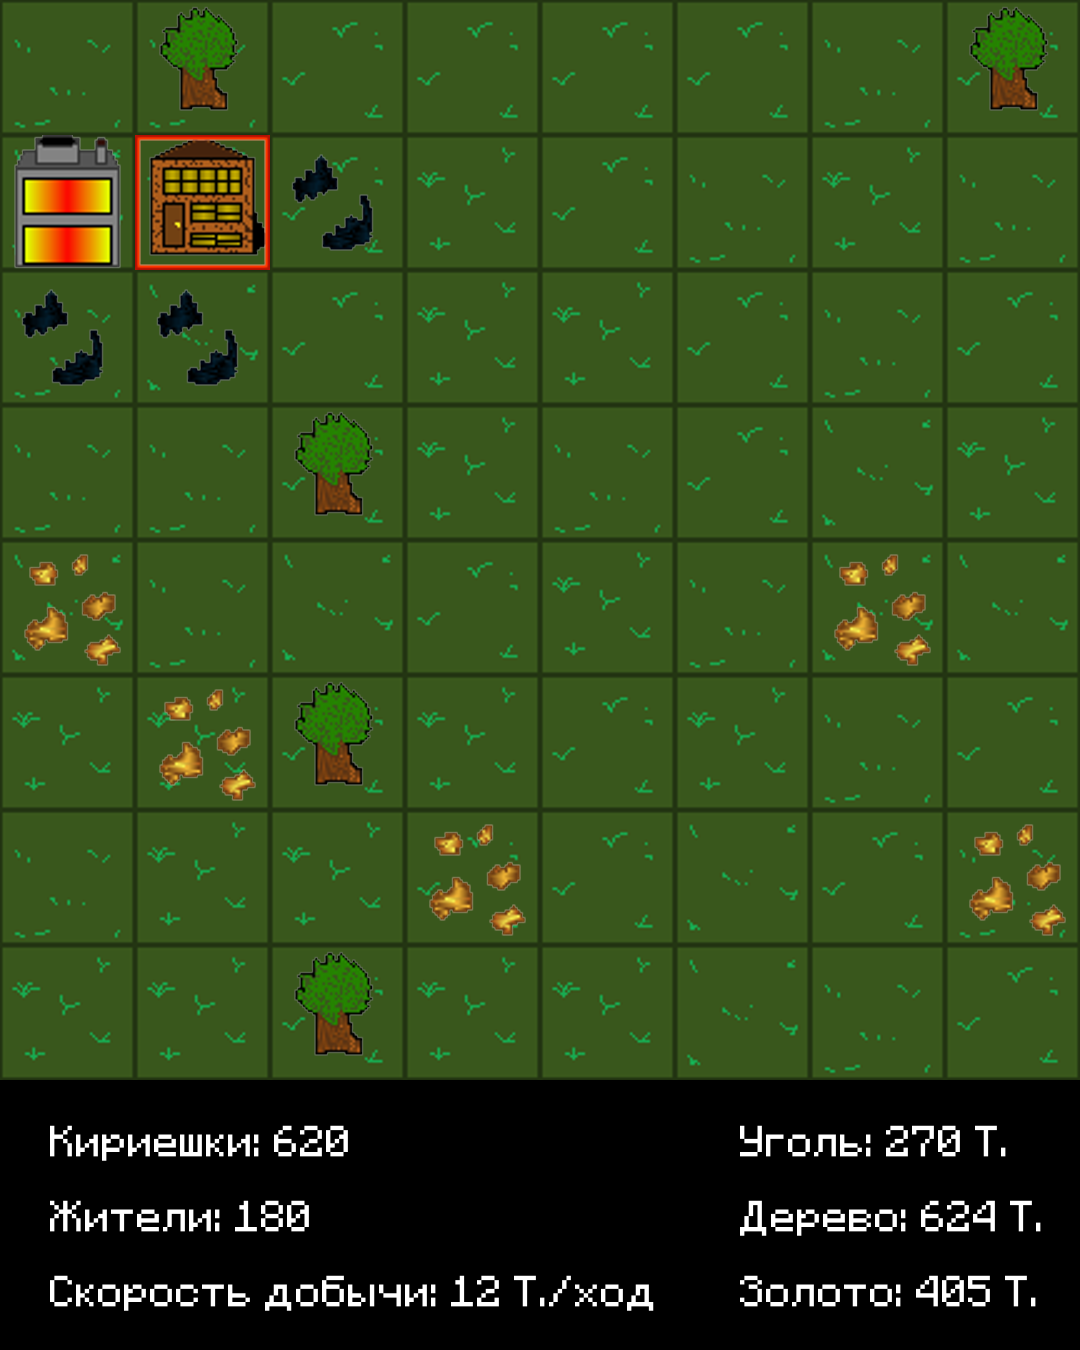
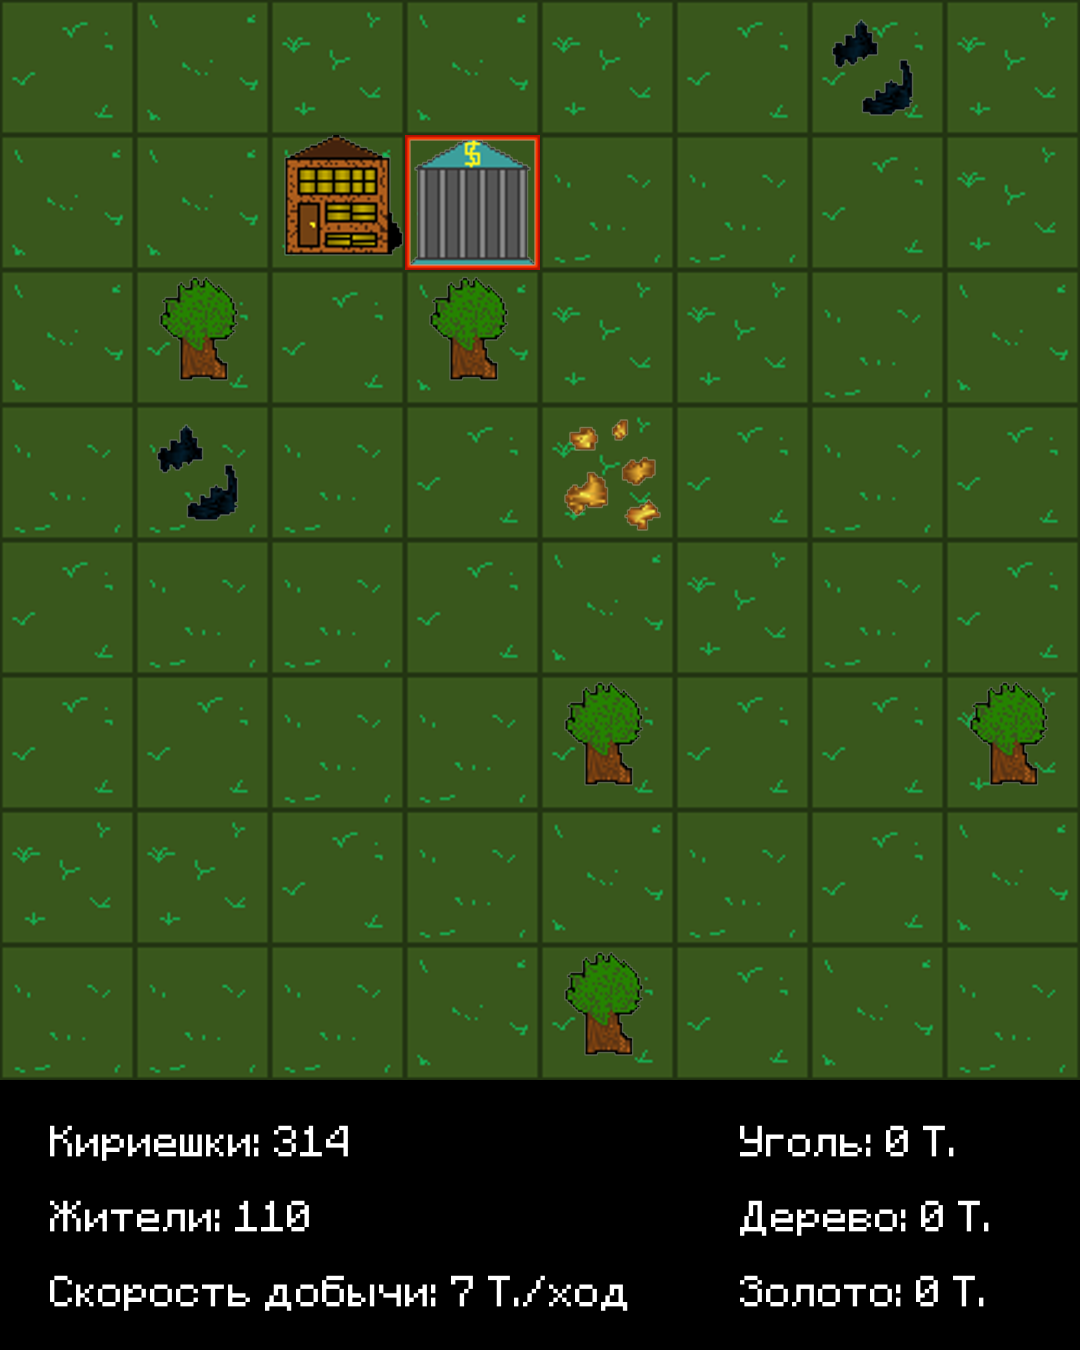
little changes

diff --git a/BGEvr/botik.py b/BGEvr/botik.py
@@ -16,7 +16,7 @@ load_dotenv()
 
 class RunGameBot:
     def __init__(self):
-        self.help_text = "Итак, вы попали в незабываемый и удивительный мир строительства - Industrio!\nВ ней вы можете ходить красным курсором, который представляет вашу безграничную силу, нажимая на стрелочки.\nТак же вы можете строить и улучшать дома построенные вами в вкладке 'строительство'\nНу и кнопка следующий ход - следующий ход, что сказать.\nЖелаем приятной игры, разработчики йеллоу тиме <3!"
+        self.help_text = "Итак, вы попали в незабываемый и удивительный мир строительства под кодовым названием Industrio!\nВ ней вы можете ходить красным курсором, который представляет вашу безграничную силу, нажимая на стрелочки.\nТак же вы можете строить и улучшать дома построенные вами в вкладке 'строительство'\nНу и кнопка следующий ход - следующий ход, что сказать.\nЖелаем приятной игры, разработчики йеллоу тиме <3!"
         self.new_gamer = False
         self.txt = ''
         self.player_view =None
@@ -31,22 +31,23 @@ class RunGameBot:
         self.used_keyboard = []
         self.economic_keyboard = [
             [InlineKeyboardButton("продать весь уголь", callback_data='sell_coal')],
-            [InlineKeyboardButton("продать все золото", callback_data='sell_gold')],
             [InlineKeyboardButton("продать все дерево", callback_data='sell_wood')],
+            [InlineKeyboardButton("продать все золото", callback_data='sell_gold')],
             [InlineKeyboardButton("назад", callback_data='main_page')]
         ]
         self.setting_keyboard = [
             [InlineKeyboardButton("хелп ми плз", callback_data='help')],
+            [InlineKeyboardButton("инфо о вас", callback_data='user_info')],
             [InlineKeyboardButton("новая игра", callback_data='new_game')],
             [InlineKeyboardButton("назад", callback_data='main_page')]]
         self.main_keyboard = [
             [InlineKeyboardButton("настройки", callback_data='settings')],
             [InlineKeyboardButton("построить", callback_data='build')],
-            [InlineKeyboardButton("экономика", callback_data='economic')],
             [InlineKeyboardButton("🔼", callback_data='u')],
             [InlineKeyboardButton("◀",callback_data="l"),
              InlineKeyboardButton("▶",callback_data="r")],
             [InlineKeyboardButton("🔽", callback_data='d')],
+            [InlineKeyboardButton("экономика", callback_data='economic')],
             [InlineKeyboardButton("следующий ход",callback_data="next_move")]
         ]
         self.build_keyboard = [
@@ -92,8 +93,6 @@ class RunGameBot:
         query.answer()
         print(query.data)
         player = Player(query.from_user.id, self.db)
-        #if query.data == 'mod':
-        #    self.txt += ",".join(self.dataloader.load_player_id())
         if query.data == 'settings':
             self.used_keyboard = self.setting_keyboard
         if query.data == 'new_game':
@@ -101,10 +100,10 @@ class RunGameBot:
             self.db.delete_by_user_id("user_info",self.user.id)
             user_res = self.generator_res.generate_res()
             self.db.insert_batch("user_info",[{"pos_x" : 1,"pos_y" : 1, "units" : 10, "house_id" : 'no_buildings', "chat_id" : self.user.id,"user_id" : self.user.id,"created" : int(datetime.now().timestamp()), "updated" : int(datetime.now().timestamp()),"money" : 100,"user_nickname" : self.user.full_name,"last_img_id": t,"res_id" : user_res,"player_level" : 1,"mining_speed":1}],id_name='user_id')
+            self.used_keyboard = self.main_keyboard
             update_usage = True
-        """if query.data == 'delete':
-            self.player.delete_house()
-            update_usage = True"""
+        if query.data == 'user_info':
+            self.txt += self.player.player_info()
         if query.data == 'economic':
             self.used_keyboard = self.economic_keyboard
         if query.data == 'help':
@@ -141,6 +140,10 @@ class RunGameBot:
             self.txt += player.build_smth("small_bank", query.from_user.id)
             update_usage = True
             #self.txt += "А фигушки, механика пока не работает :("
+
+        if query.data in ["sell_gold","sell_coal","sell_wood"]:
+            self.txt += self.player.trade(query.data.split("_")[1])
+            update_usage = True
 
         if query.data == 'upgrade':
             self.txt+=self.player.update_house()

diff --git a/BGEvr/Model/player.py b/BGEvr/Model/player.py
@@ -72,9 +72,9 @@ class Player:
         houses_data = {
             "small_house": [0, 10],
             "small_factory": [10, 0],
-            "middle_house": [0,25],
+            "middle_house": [5,25],
             "middle_factory": [25,0],
-            "big_house": [0,50],
+            "big_house": [10,50],
             "big_factory": [50,0],
             "small_bank": [0,0],
             "middle_bank":[0,0]
@@ -133,10 +133,10 @@ class Player:
     def build_smth(self,buiding, user_id):
         return self.game.create_house(buiding,[self.progress["x"],self.progress["y"]])
 
-    def player_info(self, user_id):
+    def player_info(self):
         self.player_money = self.db.select_by_user_id("user_info",self.user_id)[0][8]
         self.player_units = self.db.select_by_user_id("user_info",self.user_id)[0][2]
-        return f"Ваши кириешки, Милорд - {self.player_money}\nКоличество ваших жителей, Милорд - {self.player_units}"
+        return f"Ваш уровень - {self.player_level}\n\n\nДа и все..."
     
 
 
@@ -156,3 +156,25 @@ class Player:
             return self.game.upgrade_house(self.player_pos_x,self.player_pos_y)
         else:
             return "Нету денег :("
+        
+    def check_bank(self):
+        user_houses = self.db.select_by_user_id("user_info", self.user_id)[0][3]
+        if user_houses == "no_buildings":
+            return 0
+        user_houses = list(map(int, user_houses.split(',')))
+        n = 0
+        for i in user_houses:
+            t = self.db.select_by_house_id("houses",i)[0]
+            if t[0] == "bank":
+                n += t[3]
+        return n
+
+    def trade(self,res_type):
+        res = {"wood" : self.db.select_by_user_id("user_info",self.user_id)[0][10],
+               "coal" : self.db.select_by_user_id("user_info",self.user_id)[0][11],
+               "gold" : self.db.select_by_user_id("user_info",self.user_id)[0][16]}
+        self.player_money += res[res_type] * (1+self.check_bank())//2
+        res[res_type] = 0
+        req = f"""coal = {res["coal"]},gold = {res["gold"]},wood = {res["wood"]},money = {self.player_money}"""
+        self.db.update_by_user_id("user_info",req,self.user_id)
+        return f"Вы успешно продали данный ресурс, на вашем балансе - {self.player_money} кириешек!"

diff --git a/BGEvr/Controller/gameplay_manager.py b/BGEvr/Controller/gameplay_manager.py
@@ -150,8 +150,8 @@ class Game():
             if t != []:
                 print(t)
                 if t[0][1] == player_x and t[0][2] == player_y:
-                    if t[0][3] >=3:
-                        return "больше нельзя строить - максимальный уровень"
+                    if t[0][3] >=3 or (t[0][0] == "bank" and t[0][3] >= 2):
+                        return "Больше нельзя строить - максимальный уровень"
                     else:
                         new_level = t[0][3] + 1
                     #print(t[0][3],'  ',new_level)
@@ -181,6 +181,7 @@ class Game():
                 _tree += _mine_speed
                 t[3] -= _mine_speed
             req = f"""coal = {_coal},wood = {_tree},gold = {_gold}"""
+            self.db.update_by_res_id("resources",f"""volume = {t[3]}""",i)
             self.db.update_by_user_id("user_info",req,self.user_id)
             if t[3] <= 0:
                 self.db.delete_by_house_id("resources",i)

diff --git a/BGEvr/database_adapter.py b/BGEvr/database_adapter.py
@@ -67,7 +67,7 @@ class Adapter():
         self.cursor.execute(request_update)
         self.conn.commit()
     def update_by_res_id(self, table, request, id):
-        request_update = f"""UPDATE "{self.schema_name}"."{table}" SET {request} WHERE res_id={id}"""
+        request_update = f"""UPDATE "{self.schema_name}"."{table}" SET {request} WHERE id={id}"""
         print(request_update)
         self.cursor.execute(request_update)
         self.conn.commit()
